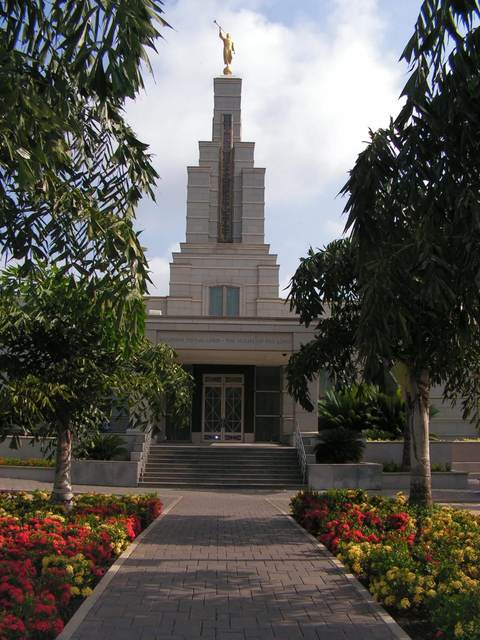
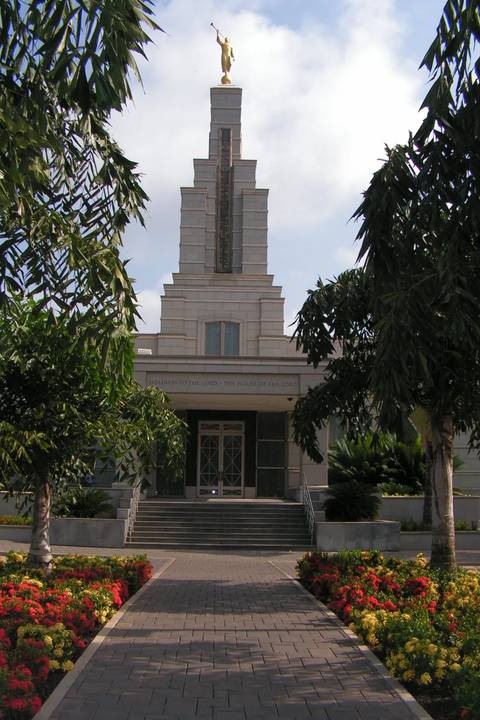
image crop new

diff --git a/temples.html b/temples.html
@@ -46,7 +46,7 @@
                 <figcaption>Aba Nigeria Temple</figcaption>
             </figure>
             <figure>
-                <img src="images/accra-ghana-temple.jpg" alt="The Accra Ghana Temple entrance framed by tall palm trees" width="480" height="640" loading="lazy">
+                <img src="images/accra-ghana-temple.jpg" alt="The Accra Ghana Temple entrance framed by tall palm trees" width="480" height="720" loading="lazy">
                 <figcaption>Accra Ghana Temple</figcaption>
             </figure>
             <figure>
@@ -54,15 +54,11 @@
                 <figcaption>Helena Montana Temple</figcaption>
             </figure>
             <figure>
-                <img src="images/indianapolis-temple.jpg" alt="The Indianapolis Temple with a fountain in front" width="480" height="320" loading="lazy">
-                <figcaption>Indianapolis Indiana Temple</figcaption>
-            </figure>
-            <figure>
                 <img src="images/aba-nigeria-temple.jpg" alt="The Aba Nigeria Temple with its spire against a cloudy sky" width="480" height="720" loading="lazy">
                 <figcaption>Aba Nigeria Temple</figcaption>
             </figure>
             <figure>
-                <img src="images/accra-ghana-temple.jpg" alt="The Accra Ghana Temple entrance framed by tall palm trees" width="480" height="640" loading="lazy">
+                <img src="images/accra-ghana-temple.jpg" alt="The Accra Ghana Temple entrance framed by tall palm trees" width="480" height="720" loading="lazy">
                 <figcaption>Accra Ghana Temple</figcaption>
             </figure>
             <figure>
@@ -70,12 +66,16 @@
                 <figcaption>Helena Montana Temple</figcaption>
             </figure>
             <figure>
-                <img src="images/indianapolis-temple.jpg" alt="The Indianapolis Temple with a fountain in front" width="480" height="320" loading="lazy">
-                <figcaption>Indianapolis Indiana Temple</figcaption>
-            </figure>
-            <figure>
                 <img src="images/aba-nigeria-temple.jpg" alt="The Aba Nigeria Temple with its spire against a cloudy sky" width="480" height="720" loading="lazy">
                 <figcaption>Aba Nigeria Temple</figcaption>
+            </figure>
+            <figure>
+                <img src="images/accra-ghana-temple.jpg" alt="The Accra Ghana Temple entrance framed by tall palm trees" width="480" height="720" loading="lazy">
+                <figcaption>Accra Ghana Temple</figcaption>
+            </figure>
+            <figure>
+                <img src="images/helena-montana-temple.jpg" alt="The Helena Montana Temple tower lit at dusk" width="480" height="720" loading="lazy">
+                <figcaption>Helena Montana Temple</figcaption>
             </figure>
         </div>
     </main>